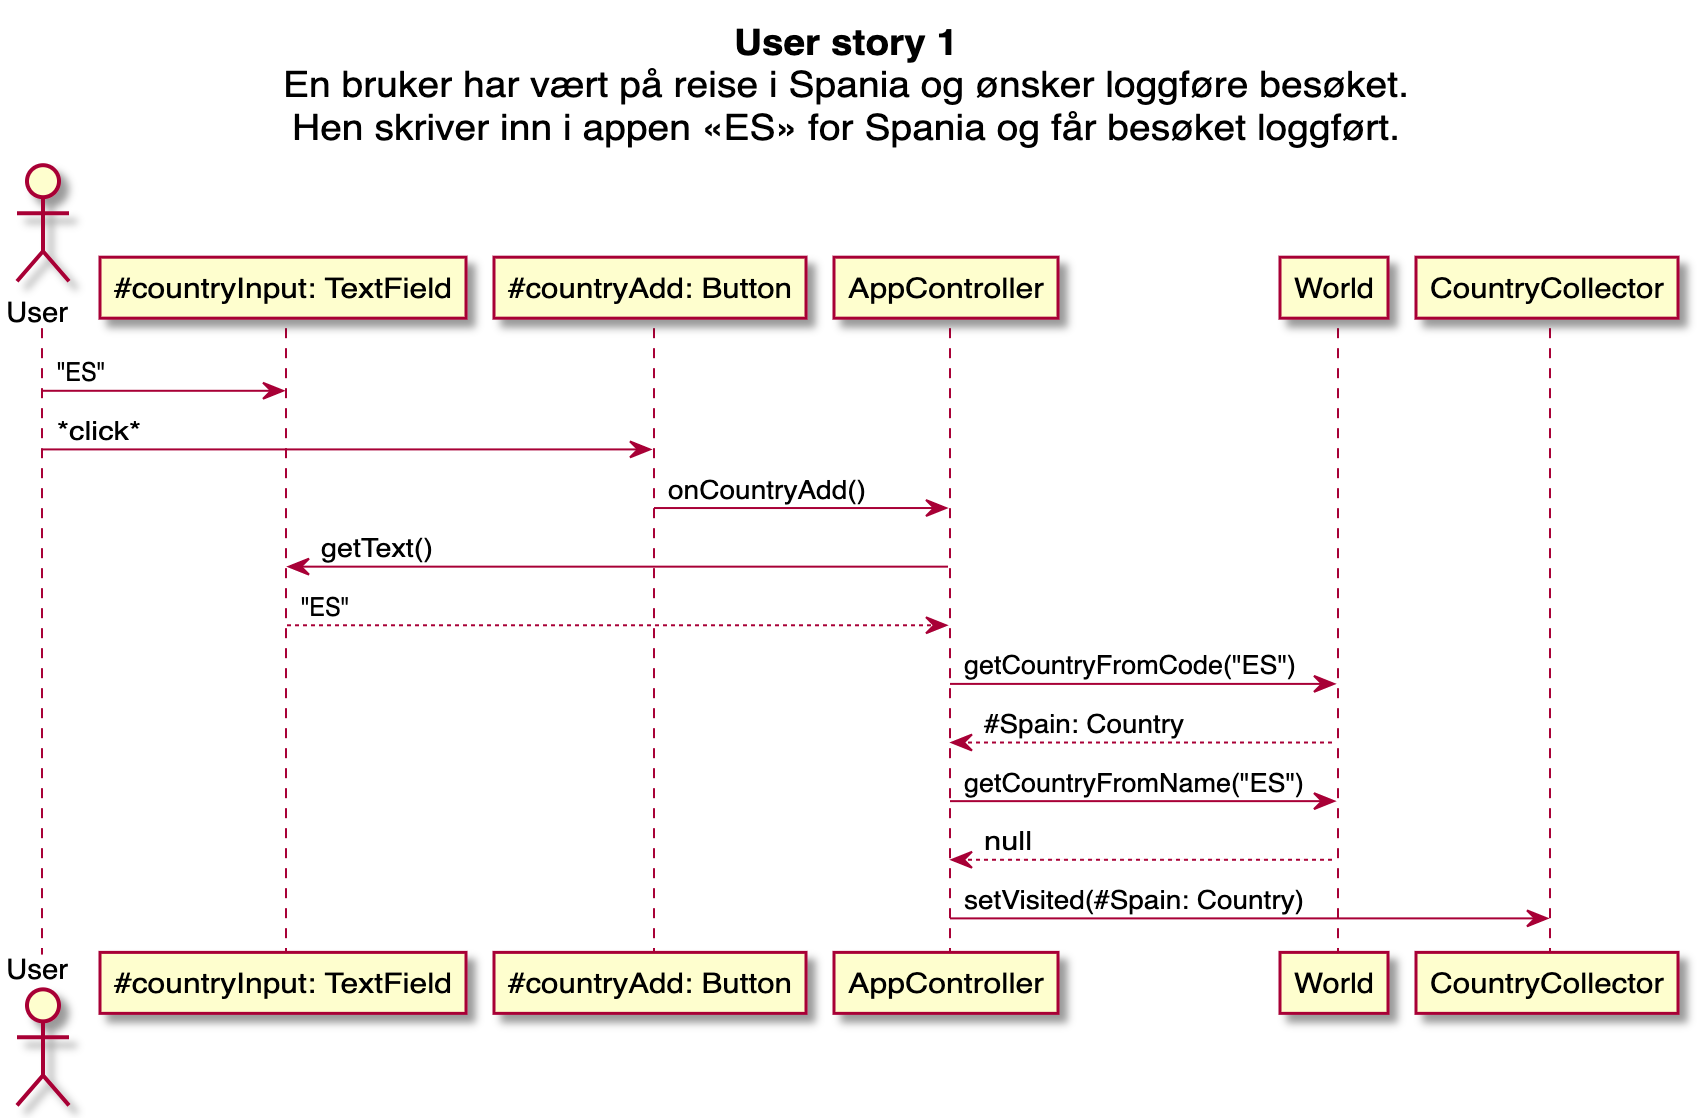
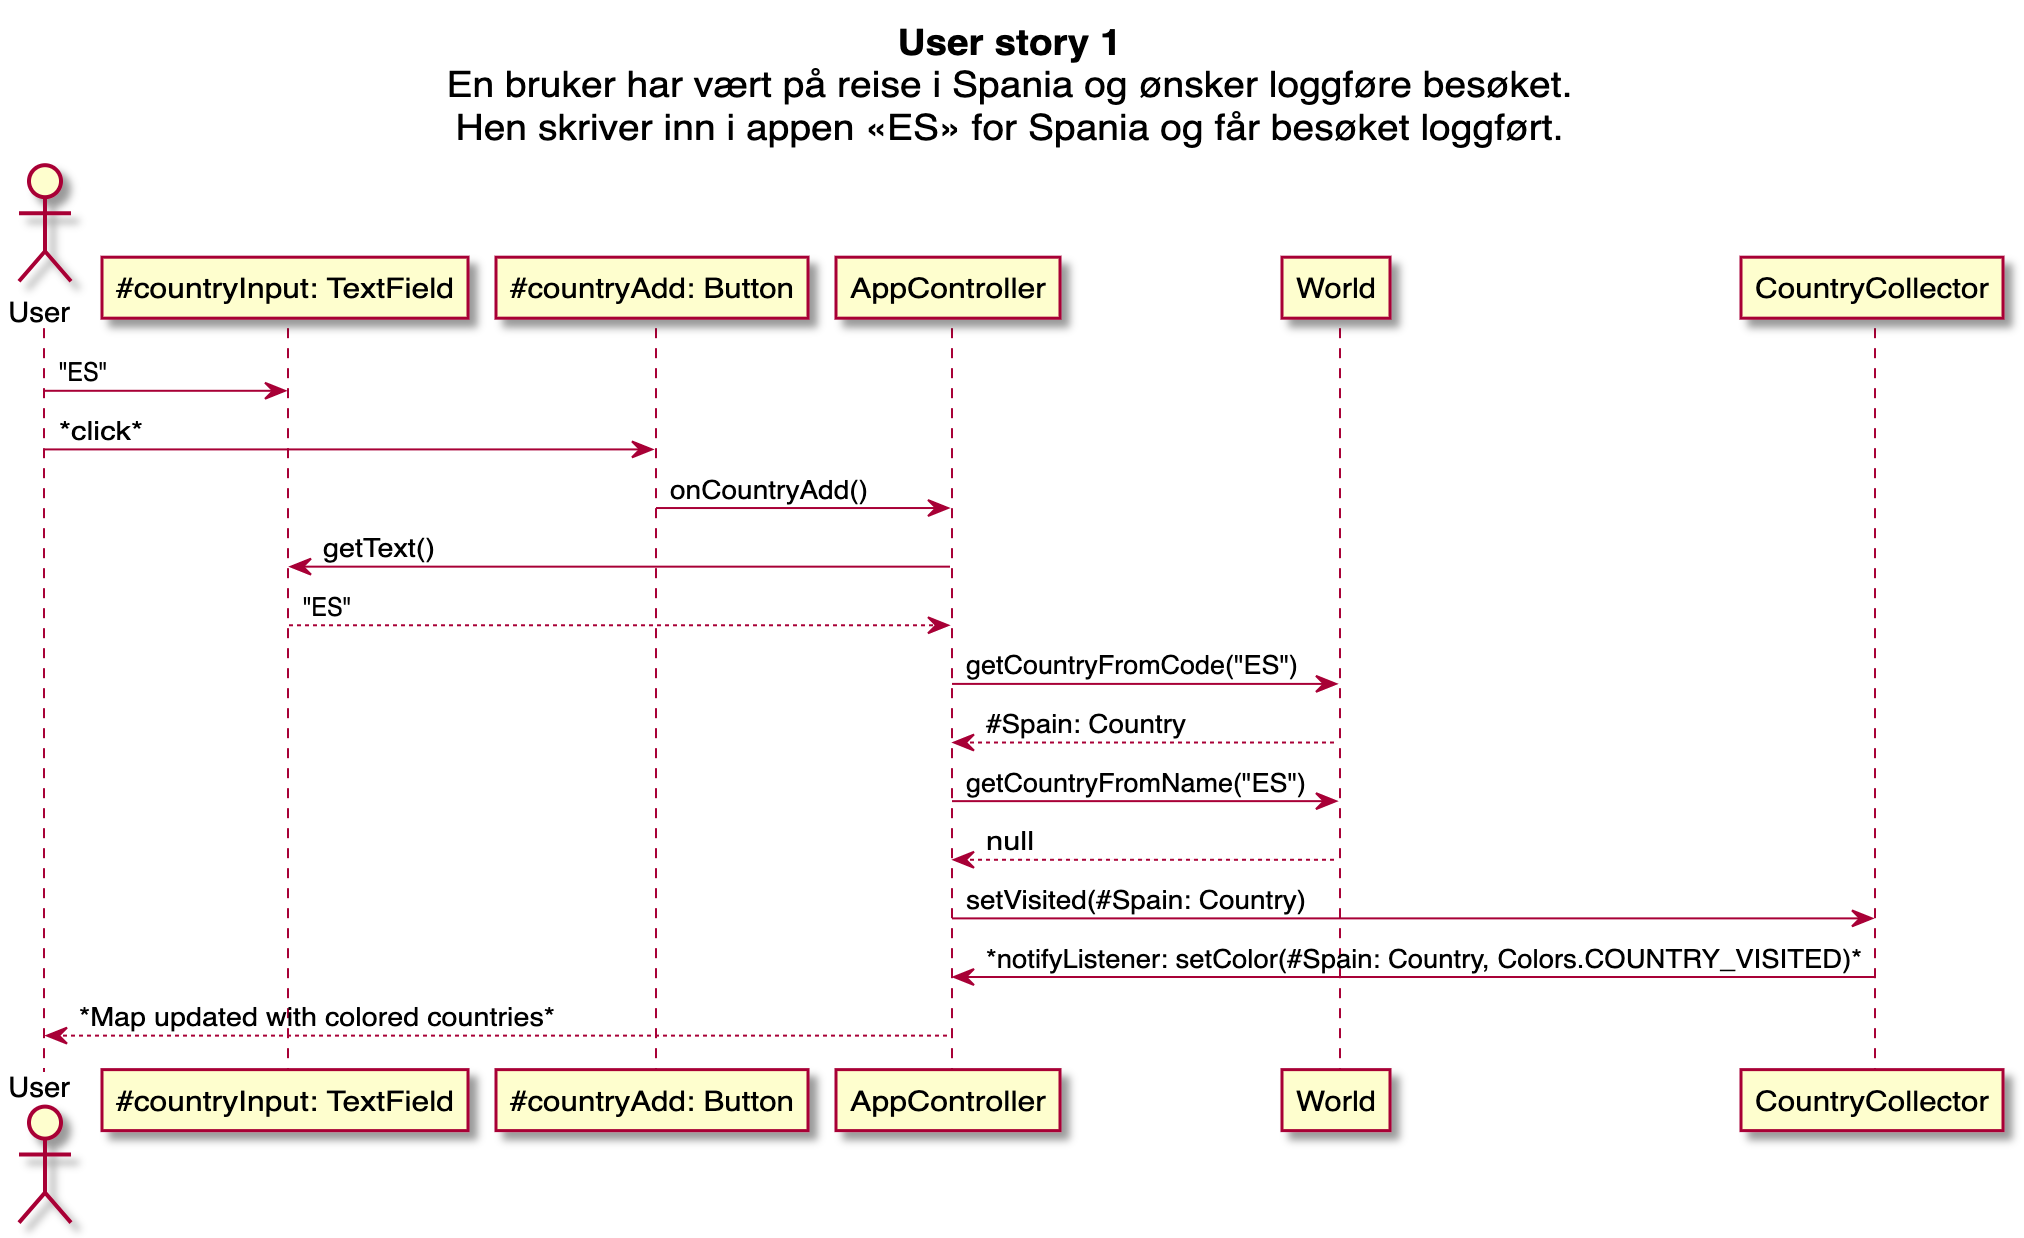
Update readme and UserStory-diagram

diff --git a/diagrams/README.md b/diagrams/README.md
@@ -3,14 +3,14 @@
 **NB:** The following diagrams should render in GitLab, but as we can't get it to work they're attached as pre-rendered PNG-files.
 
 ## Classes
-
+The following diagram shows all classes and their connections.
 ![Classes](classes.png)
 
 ## Modules and dependencies
-
+The following diagram shows the different modules and packages in this project, as well as their dependencies between each other and to external modules.
 ![Modules and dependencies](modules.png)
 
 
 ## User stories
-
+The following diagram shows how the program will respond to a user completing *User Story 1*.
 ![UserStories](userStories.png)

diff --git a/README.md b/README.md
@@ -4,6 +4,9 @@
 
 The project is contained within the `globingular`-directory, and is separated into three separate modules: Core, Persistence and UI.
 
+## Diagrams
+Class-, Module- and Sequence-diagrams can be found in the [Diagrams-folder](diagrams).
+
 ## Module descriptions
 
 ### Core module
